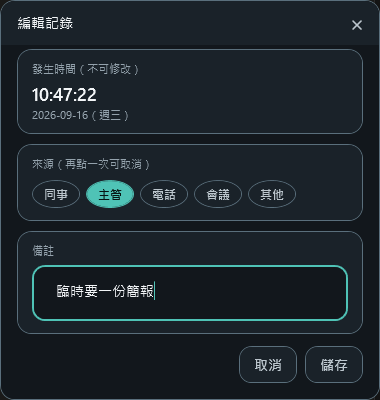
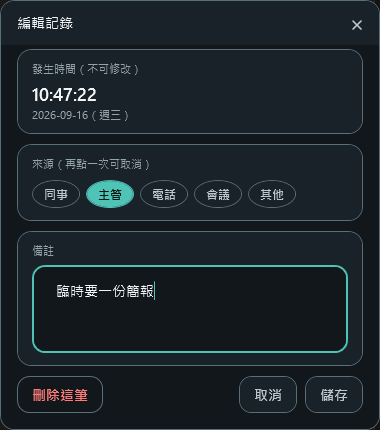
docs: 補上刪除記錄的說明與截圖
README 新增刪除用法與規格（需二次確認、無法復原）、
規格文件補 F15、design-notes 補破壞性動作的兩階視覺處理。
編輯視窗截圖更新為含刪除鈕的版本，並新增刪除確認的截圖。

diff --git a/README.md b/README.md
@@ -60,6 +60,7 @@ dotnet run --project src/StopAnnoyingMe.App
 | 標記是誰打擾 | 記錄之後點一下標籤（同事／主管／電話／會議／其他）。**再點同一個標籤就取消標記** |
 | 補備註／改來源 | **點一下「最近記錄」裡的任一列**，開啟編輯視窗改來源與備註。發生時間不可修改 |
 | 按錯了 | 點「撤銷最後一筆」 |
+| 刪掉中間某一筆 | 點開那一列 →「刪除這筆」→ 再按「確定刪除」。無法復原 |
 | 看統計 | 標題列的長條圖圖示，可切換今日／本週／本月 |
 | 匯出資料 | 統計畫面 →「匯出 CSV」，會匯出目前選取期間的所有記錄 |
 | 收起來 | 點標題列的 ✕，程式會收到系統匣繼續執行；要真正結束請用系統匣右鍵選「結束」 |
@@ -79,6 +80,7 @@ dotnet run --project src/StopAnnoyingMe.App
 | 撤銷 | 只刪除「今天」的最後一筆 | 今天沒有記錄時按鈕停用；不會動到昨天的資料 |
 | 標籤 | 標記今天最後一筆的來源，再點一次取消 | 最多 8 個標籤；不標記不影響記錄 |
 | 編輯記錄 | 點清單中的任一列改來源與備註 | 備註最多 500 字；發生時間不可修改；按取消不會寫入 |
+| 刪除記錄 | 在編輯視窗刪掉任一筆，不限今天、不限最後一筆 | 需二次確認；刪除後無法復原（撤銷只能救最後一筆） |
 | 今日次數 | 以本地日期計算，跨午夜自動歸零 | 每 30 秒檢查一次日期變更 |
 | 本週 | 週一為一週之始 | 台灣工作週慣例 |
 | 本月 | 當月 1 日至月底 | 自動處理閏年二月與跨年 |
@@ -125,7 +127,7 @@ dotnet run --project src/StopAnnoyingMe.App
 ```
 src/StopAnnoyingMe.Core        純邏輯（資料存取、統計、設定、熱鍵解析），無 UI 相依
 src/StopAnnoyingMe.App         WPF 介面、系統匣、全域熱鍵
-tests/StopAnnoyingMe.Core.Tests xUnit，110 個測試
+tests/StopAnnoyingMe.Core.Tests xUnit，115 個測試
 tools/generate-icon.ps1        由向量路徑產生多尺寸 app.ico
 tools/publish.ps1              跑測試 → 產圖示 → 輸出單一執行檔到 dist\
 docs/                          設計規格、視覺設計說明、截圖

diff --git a/docs/design-notes.md b/docs/design-notes.md
@@ -98,6 +98,18 @@ F0 M 40,36 H 216 V 180 H 136 L 72,220 V 180 H 40 Z M 64,60 H 192 V 156 H 128 L 9
 鍵盤焦點刻意不用「實心亮色外框」：那和「已選取」的實心填色太像，
 使用者會把只是取得焦點的標籤誤認為已選取，進而以為「點不掉」。
 
+## 破壞性動作的處理
+
+刪除記錄無法復原，視覺上分兩階，不讓使用者一步就踩到：
+
+| 階段 | 樣式 | 表現 |
+|---|---|---|
+| 第一步「刪除這筆」 | `Style.Button.Danger.Subtle` | 透明底、一般邊框、危險色文字。放在左下角，遠離右下角的「取消／儲存」，降低誤點 |
+| 第二步「確定刪除」 | `Style.Button.Danger` | 危險色實心填滿、深色文字，旁邊附「刪除後無法復原」 |
+
+危險色的 hover／pressed 兩階（`#FF9694` / `#E56260`）定義在 `Themes/Controls.xaml`，
+是從 `Brush.Danger` (`#FF7B79`) 手調出來的；Design.xaml 只定義了基準色。
+
 按熱鍵記錄時另外會在螢幕右下角顯示一個約 2.5 秒的獨立提示視窗（同一套色票、強調色外框），
 不使用 Windows 系統匣氣泡，因為氣泡會被「專注輔助」直接吃掉。
 

diff --git a/docs/superpowers/specs/2026-09-16-interruption-tracker-design.md b/docs/superpowers/specs/2026-09-16-interruption-tracker-design.md
@@ -124,6 +124,7 @@ CREATE TABLE schema_version (version INTEGER NOT NULL);
 | F12 | 開機自啟 | 寫入 `HKCU\Software\Microsoft\Windows\CurrentVersion\Run` |
 | F13 | 單一執行個體 | 重複啟動時喚回既有視窗並結束新行程 |
 | F14 | 編輯記錄 | 點「最近記錄」的任一列開啟編輯視窗，可改來源與備註（最多 500 字）。發生時間唯讀 —— 那是本工具唯一的事實依據，能改就失去意義。備註內容直接顯示在清單列上 |
+| F15 | 刪除記錄 | 編輯視窗可刪除該筆，不限今天也不限最後一筆（F5 撤銷只能救最後一筆）。刪除無法復原，因此採兩段式確認：第一步只切換到確認狀態不動資料，第二步才真的刪。確認狀態下按 Esc 退回一般狀態而不是關閉視窗 |
 
 ## 6. 邊界條件與例外處理
 
